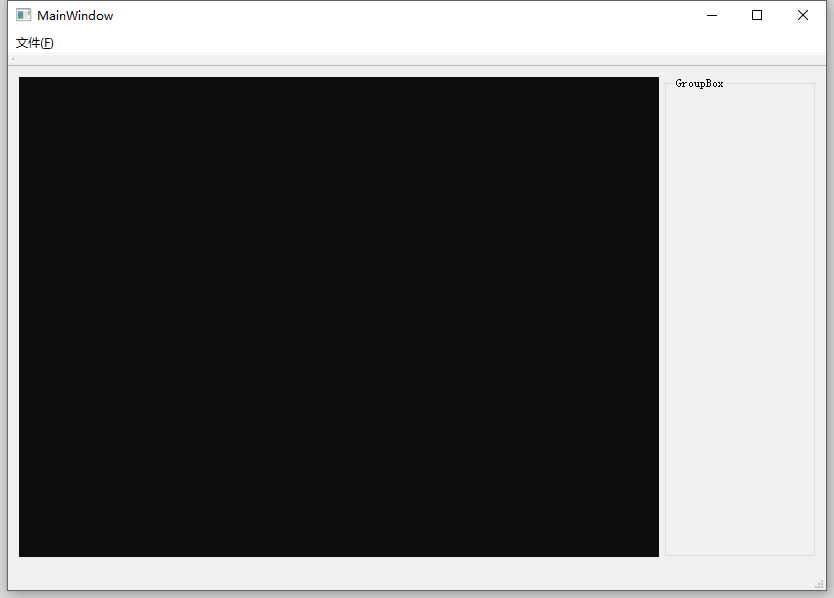
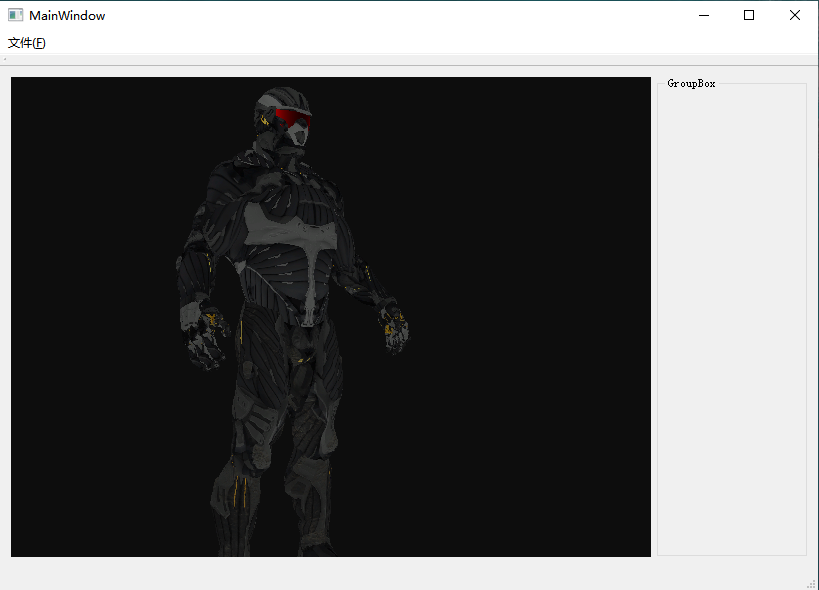
fixed the display bug of model by add the texcoords in line 82 of Model.cpp!!

diff --git a/Model.cpp b/Model.cpp
@@ -5,11 +5,14 @@ static QSharedPointer<QOpenGLTexture> textureFromFile(const QString &path, const
     QString fileName = directory + '/' + path;
 
     QImage image(fileName);
-    QSharedPointer<QOpenGLTexture> texture(new QOpenGLTexture(image));
+    QSharedPointer<QOpenGLTexture> texture(new QOpenGLTexture(QOpenGLTexture::Target2D));
+
+    texture->setFormat(QOpenGLTexture::RGBFormat);
+    texture->setData(image.mirrored(),QOpenGLTexture::GenerateMipMaps);
 
     texture->setWrapMode(QOpenGLTexture::DirectionS, QOpenGLTexture::Repeat);
     texture->setWrapMode(QOpenGLTexture::DirectionT, QOpenGLTexture::Repeat);
-    texture->setMinificationFilter(QOpenGLTexture::LinearMipMapLinear);
+    texture->setMinificationFilter(QOpenGLTexture::Linear);
     texture->setMagnificationFilter(QOpenGLTexture::Linear);
     return texture;
 }
@@ -76,20 +79,21 @@ Mesh Model::processMesh(aiMesh *mesh, const aiScene *scene)
             // use models where a vertex can have multiple texture coordinates so we always take the first set (0).
             vec.setX(mesh->mTextureCoords[0][i].x);
             vec.setY(mesh->mTextureCoords[0][i].y);
+            vertex.TexCoords = vec;
         }
         else
             vertex.TexCoords = QVector2D(0.0f, 0.0f);
 
         // tangent
-        vector.setX(mesh->mTangents[i].x);
-        vector.setY(mesh->mTangents[i].y);
-        vector.setZ(mesh->mTangents[i].z);
-        vertex.Tangent = vector;
+        //vector.setX(mesh->mTangents[i].x);
+        //vector.setY(mesh->mTangents[i].y);
+        //vector.setZ(mesh->mTangents[i].z);
+        //vertex.Tangent = vector;
         // bitangent
-        vector.setX(mesh->mBitangents[i].x);
-        vector.setY(mesh->mBitangents[i].y);
-        vector.setZ(mesh->mBitangents[i].z);
-        vertex.Bitangent = vector;
+        //vector.setX(mesh->mBitangents[i].x);
+        //vector.setY(mesh->mBitangents[i].y);
+        //vector.setZ(mesh->mBitangents[i].z);
+        //vertex.Bitangent = vector;
 
         vertices.push_back(vertex);
     }

diff --git a/Mesh.cpp b/Mesh.cpp
@@ -10,6 +10,13 @@ Mesh::Mesh(QVector<Vertex> vertices,QVector<unsigned int> indices,QVector<Textur
     core = QOpenGLContext::currentContext()->versionFunctions<QOpenGLFunctions_3_3_Core>();
 }
 
+Mesh::~Mesh()
+{
+    core->glDeleteBuffers(1,&VAO);
+    core->glDeleteBuffers(1,&VBO);
+    core->glDeleteBuffers(1,&EBO);
+}
+
 void Mesh::draw(QOpenGLShaderProgram* shaderProgram)
 {
     if(!isInitialized){
@@ -25,7 +32,7 @@ void Mesh::draw(QOpenGLShaderProgram* shaderProgram)
 
     for(int i = 0; i < textures.size(); i++)
     {
-        core->glActiveTexture(GL_TEXTURE0 + static_cast<unsigned int>(i)); // active proper texture unit before binding
+        //core->glActiveTexture(GL_TEXTURE0 + static_cast<unsigned int>(i)); // active proper texture unit before binding
         // retrieve texture number (the N in diffuse_textureN)
         QString number;
         QString name = textures[i].type;
@@ -88,11 +95,11 @@ void Mesh::setupMesh(QOpenGLShaderProgram* shaderProgram)
     core->glEnableVertexAttribArray(2);
     core->glVertexAttribPointer(2, 2, GL_FLOAT, GL_FALSE, sizeof(Vertex), reinterpret_cast<void*>(offsetof(Vertex, TexCoords)));
     // vertex tangent
-    core->glEnableVertexAttribArray(3);
-    core->glVertexAttribPointer(3, 3, GL_FLOAT, GL_FALSE, sizeof(Vertex), reinterpret_cast<void*>(offsetof(Vertex, Tangent)));
+    //core->glEnableVertexAttribArray(3);
+    //core->glVertexAttribPointer(3, 3, GL_FLOAT, GL_FALSE, sizeof(Vertex), reinterpret_cast<void*>(offsetof(Vertex, Tangent)));
     // vertex bitangent
-    core->glEnableVertexAttribArray(4);
-    core->glVertexAttribPointer(4, 3, GL_FLOAT, GL_FALSE, sizeof(Vertex), reinterpret_cast<void*>(offsetof(Vertex, Bitangent)));
+    //core->glEnableVertexAttribArray(4);
+    //core->glVertexAttribPointer(4, 3, GL_FLOAT, GL_FALSE, sizeof(Vertex), reinterpret_cast<void*>(offsetof(Vertex, Bitangent)));
 
-    //core->glBindVertexArray(0);
+    core->glBindVertexArray(0);
 }

diff --git a/Mesh.h b/Mesh.h
@@ -16,9 +16,9 @@ struct Vertex {
     // texCoords
     QVector3D TexCoords;
     // tangent
-    QVector3D Tangent;
+    //QVector3D Tangent;
     // bitangent
-    QVector3D Bitangent;
+    //QVector3D Bitangent;
 };
 
 struct Texture {
@@ -31,6 +31,9 @@ struct Texture {
 class Mesh
 {
 public:
+    Mesh(QVector<Vertex> vertices,QVector<unsigned int> indices,QVector<Texture> textures);
+    ~Mesh();
+
     QVector<Vertex> vertices;
     QVector<unsigned int> indices;
     QVector<Texture> textures;
@@ -39,7 +42,6 @@ public:
     QOpenGLFunctions_3_3_Core* core;
     bool isInitialized;
 
-    Mesh(QVector<Vertex> vertices,QVector<unsigned int> indices,QVector<Texture> textures);
 
     void draw(QOpenGLShaderProgram* shaderProgram);
 
